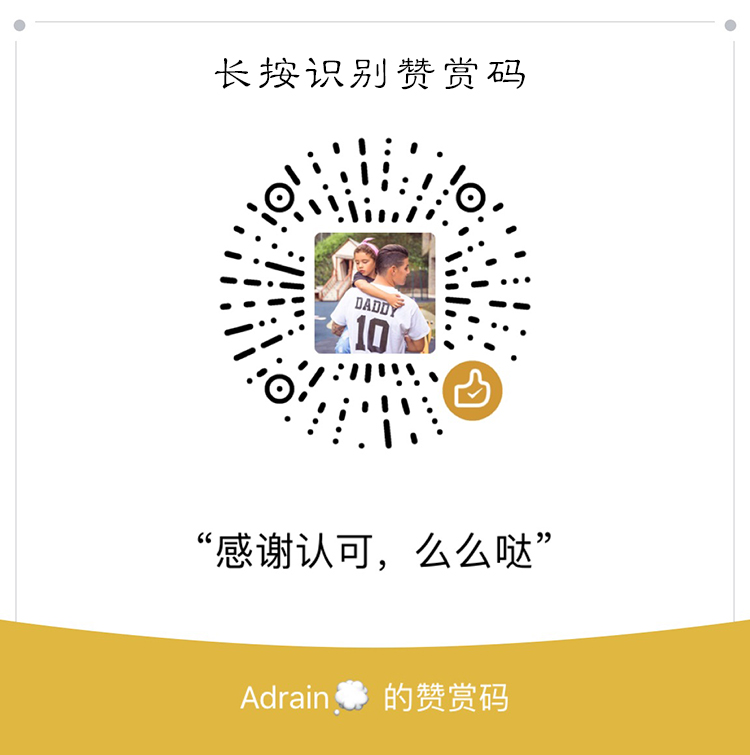
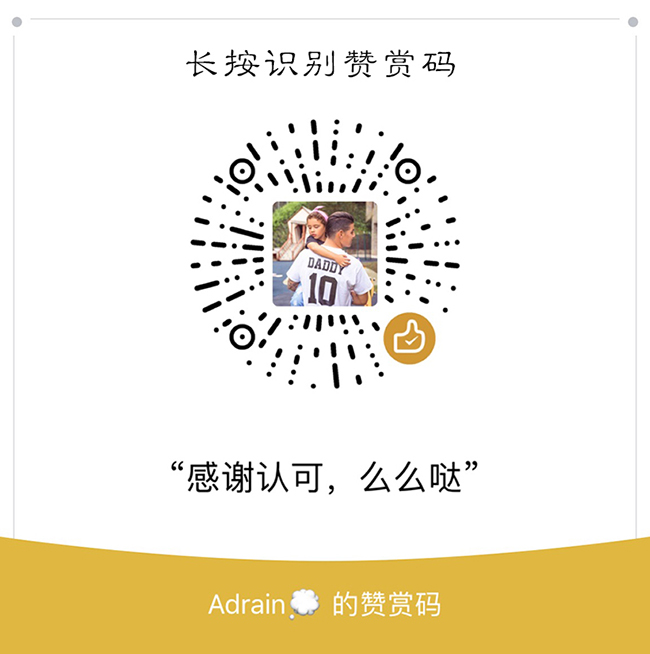
poster页面分享图绘制Done

Changed region(s): [[0.5538, 0.9174, 0.5846, 0.948], [0.3692, 0.7034, 0.4, 0.7339], [0.3692, 0.0917, 0.4, 0.1223]]

diff --git a/src/pages/poster/index.vue b/src/pages/poster/index.vue
@@ -1,6 +1,6 @@
 <template>
     <div class="jike-poster">
-        <painter :customStyle="customStyle" :imgOK="onImgOk" :palette="template" :dirty="true"/>
+        <painter :customStyle="customStyle" @imgOK="onImgOk" :palette="template" :dirty="true"/>
         <div class="btn-wrap">
             <button class='save-btn' @click="saveImage">保存到相册</button>
         </div>
@@ -13,7 +13,8 @@ import Card from '../../palette/card';
 export default {
     data() {
         return {
-            customStyle: 'border: solid 1rpx #ccc;border-radius: 20rpx; margin-top: 60rpx; margin-left: 48rpx',
+            shareImgUrl: '',
+            customStyle: 'border: solid 1rpx #eee; margin-top: 60rpx; margin-left: 48rpx',
             nickName: '',
             avatarUrl: '',
             template: {}
@@ -29,14 +30,50 @@ export default {
                 }
             });
         },
-        onImgOK(e) {
+        onImgOk(e) {
             // https://www.jianshu.com/p/516b66dca84c
             // https://www.jianshu.com/p/2a140f7e7e73
-            console.log('222222', e.target.path);
-            console.log(e.mp.detail.path);
-            console.log(e.target.path);
+            this.shareImgUrl = e.target.path;
         },
         saveImage() {
+            if (!this.shareImgUrl) {
+                wx.showToast({
+                    title: '图片生成中，请稍后再尝试吧',
+                    icon: 'none'
+                });
+                return;
+            }
+            wx.saveImageToPhotosAlbum({
+                filePath: this.shareImgUrl,
+                success(res) {
+                    wx.hideLoading();
+                    wx.showModal({
+                        title: '提示',
+                        showCancel: false,
+                        confirmText: '知道了',
+                        confirmColor: '#0facf3',
+                        content: '图片已保存到手机相册，快快分享吧',
+                        success: (res) => {
+                            if (res.confirm) {
+                                console.log('保存成功');
+                            }
+                        }
+                    });
+                },
+                fail(res) {
+                    wx.hideLoading();
+                    wx.showModal({
+                        title: '保存失败',
+                        showCancel: false,
+                        confirmText: '知道了',
+                        confirmColor: '#0facf3',
+                        content: '您拒绝了授权，若要保存图片，请删除小程序，再重新打开',
+                        success: (res) => {
+                            console.log(res);
+                        }
+                    });
+                }
+            });
         }
     },
     onLoad() {
@@ -45,7 +82,9 @@ export default {
         let cardInfo = {
             totemImgUrl: `/static/images/totem/${totemName}.jpg`,
             qrcodeImgUrl: '/static/images/qrcode.png',
-            location: currentCond.location || '上海市',
+            location: currentCond.location,
+            tmp: currentCond.tmp + '°',
+            condTxt: currentCond.cond_txt || '?',
             todayMinTmp: '10',
             todayMaxTmp: '20'
         };

diff --git a/src/palette/card.js b/src/palette/card.js
@@ -45,20 +45,45 @@ export default class LastMayday {
                 type: 'text',
                 text: this.cardInfo.location,
                 css: {
-                    left: '320rpx',
-                    top: '450rpx',
-                    fontSize: '30rpx',
+                    left: '390rpx',
+                    top: '510rpx',
+                    fontSize: '24rpx',
+                    color: '#ccc',
                     align: 'center'
                 }
             },
             {
                 type: 'text',
-                text: this.cardInfo.todayMinTmp + '~' + this.cardInfo.todayMaxTmp,
+                text: this.cardInfo.tmp,
+                css: {
+                    left: '270rpx',
+                    top: '440rpx',
+                    fontSize: '100rpx',
+                    color: '#977053',
+                    align: 'center'
+                }
+            },
+            {
+                type: 'rect',
+                css: {
+                    width: '80rpx',
+                    height: '80rpx',
+                    background: '#000',
+                    borderRadius: '40rpx',
+                    borderColor: '#fff',
+                    left: '300rpx',
+                    top: '570rpx',
+                    color: '#977053'
+                }
+            },
+            {
+                type: 'text',
+                text: this.cardInfo.condTxt,
                 css: {
                     left: '320rpx',
-                    top: '480rpx',
-                    fontSize: '30rpx',
-                    align: 'center'
+                    top: '584rpx',
+                    fontSize: '40rpx',
+                    color: '#fff'
                 }
             }
             ]

diff --git a/src/pages/poster/main.js b/src/pages/poster/main.js
@@ -3,10 +3,3 @@ import App from './index';
 
 const app = new Vue(App);
 app.$mount();
-export default {
-    config: {
-        usingComponents: {
-            'painter': '../../static/painter/painter'
-        }
-    }
-};
